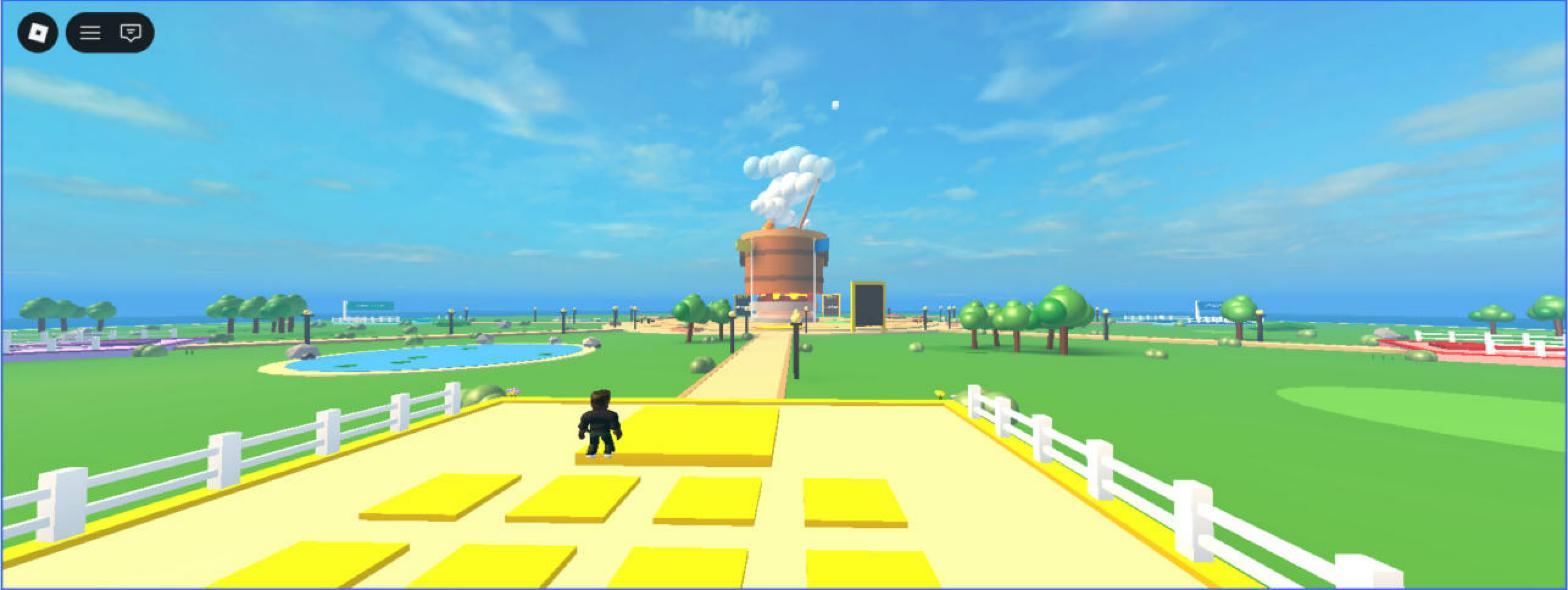
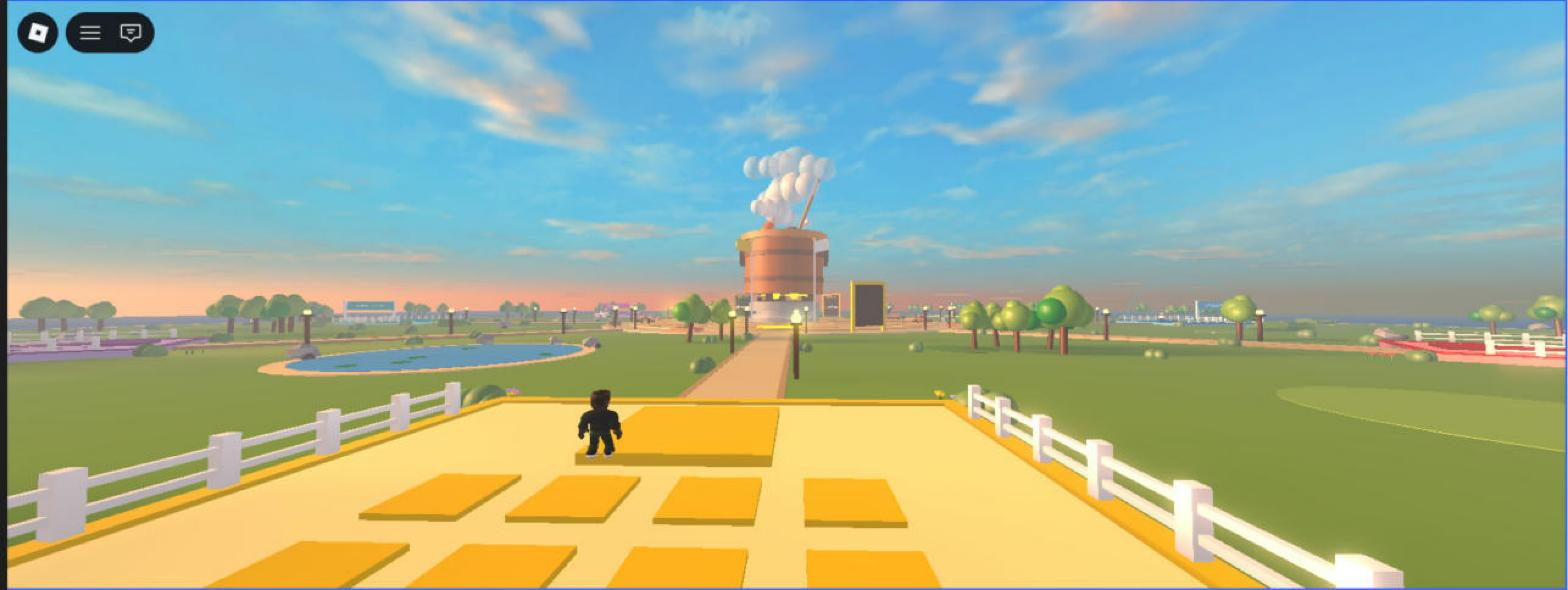
Fase 1 rodada 4: fotos e medições do clima de fim de tarde

diff --git a/docs/qa/FASE1_MUNDO_EVIDENCIAS.md b/docs/qa/FASE1_MUNDO_EVIDENCIAS.md
@@ -4,7 +4,7 @@ Estilo: cartoon pintado (GAME_BRIEF §5). Guia: `make-map/styles/simulator.md`. 
 (`src/shared/LightingRecipes.lua`). Mundo gerado por código a cada início de servidor (`src/server/World.lua`, semente fixa)
 com o MapKit do fwjelaa vendorizado (`src/vendor/server/MapKit`).
 
-## O que existe agora (depois da rodada de correção 3)
+## O que existe agora (depois da rodada 4: clima de fim de tarde, escolhido pelo usuário)
 - **Ilha** de grama (raio 470) com manchas de grama em dois tons, praia, faixa de água rasa e mar até o horizonte,
   tudo de peça (sem água de terreno).
 - **Praça** em dois degraus (r 138 / r 120), anel e 8 faixas-guia no piso apontando para o centro.
@@ -14,10 +14,10 @@ com o MapKit do fwjelaa vendorizado (`src/vendor/server/MapKit`).
 - **Postes de luz** nas entradas e ao longo de todos os caminhos, com **arbustos** do lado oposto.
 - **8 bases** com cor-tema, cerca branca; **placa nos fundos** com **contorno escuro no texto**.
 - **3 lagos** com vitórias-régias e pedras; árvores em grupos, arbustos, flores, pedras e colinas baixas.
-- **Luz:** sol de tarde (ClockTime 15) e mais quente, contraste 0,12 e tom quente na correção de cor, raios de sol sutis,
-  névoa para profundidade.
+- **Luz (rodada 4):** fim de tarde. Sol baixo (ClockTime 16,8, latitude 30), luz alaranjada em cima e roxa embaixo, névoa
+  alaranjada (Haze 1,5, Glare 0,4), Bloom 0,7 e raios de sol. Grama #7FA34E. Lâmpadas dos postes acesas (Neon).
 
-## Verificação (place de teste, Play)
+## Verificação (place de teste, Play; rodada 4: rotas 24/24, 0/285 flutuando, 0 soltas, 4.859 peças, 48 Neon)
 | Gate | Resultado |
 |---|---|
 | Verificador Luau | overall PASS (45 arquivos) |
@@ -29,7 +29,9 @@ com o MapKit do fwjelaa vendorizado (`src/vendor/server/MapKit`).
 | Bandeiras fora do caldeirão | mastro r 34 > raio do caldeirão 32,3 |
 | Peças no mapa | 4.860 (alvo < 10.000) |
 
-**Orçamento por vista** (SceneAnalysisService, sem sombras, qualidade fixada; alvo celular 500k triângulos / 500 draw calls):
+**Orçamento por vista (rodada 4, Q5/Q10):** base 304k/35 e 316k/38 · aérea 429k/35 e 466k/33 · praça 176k/23 e 189k/25 · natureza NO 379k/28 e 411k/34.
+
+**Orçamento por vista (rodada 3)** (SceneAnalysisService, sem sombras, qualidade fixada; alvo celular 500k triângulos / 500 draw calls):
 
 | Vista | Qualidade 5 | Qualidade 10 |
 |---|---|---|
@@ -50,7 +52,7 @@ Antes da troca da água: a água de terreno custava ~290k triângulos e ~300 dra
 - `05_chegando_na_base.jpg`
 
 Capturas com o avatar R15 no quadro. A UI de tela e os letreiros flutuantes (nomes, drops, chuva de comida do evento)
-foram desligados **só no cliente da foto**. As versões anteriores estão em `rodada1/` e `rodada2/`.
+foram desligados **só no cliente da foto**. As versões anteriores estão em `rodada1/`, `rodada2/` e `rodada3/`.
 
 ## Histórico das rodadas (rubrica `world`, 3 revisores cegos, mediana por critério, soma refeita)
 | Rodada | O que mudou | Mediana W1..W6 | Nota |
@@ -58,6 +60,7 @@ foram desligados **só no cliente da foto**. As versões anteriores estão em `r
 | 1 | primeira versão + ajustes (borda, pedras, cores, caldeirão 1,7×, placares, faixas, slots, placa nos 2 lados) | [1,1,1,1,1,1] | 5,0 |
 | 2 | placa para os fundos; pedestal e bandeiras; banquete; postes; lagos; névoa; mar sem água de terreno; fotos com avatar | [2,2,1,1,1,2] | 7,9 |
 | 3 | sol de tarde e mais quente, correção de cor quente, raios de sol, fogo Neon com luz; placares de madeira; evento dourado; contorno no texto das placas; manchas de grama; arbustos nos caminhos | [2,2,1,1,1,2] | 7,9 (máx. de rodadas atingido) |
+| 4 (decisão do usuário) | **clima de fim de tarde** (receita GoldenAfternoon: vault §3.3 Golden hour com ClockTime 16,8 e ambiente mais alto), grama verde-amarelada menos saturada, postes de madeira com lâmpada Neon | (este painel) | |
 
 ## Não feito / limites
 - O marco e os props são primitivas, sem textura pintada. A textura pintada entra com os modelos da Fase 2.
